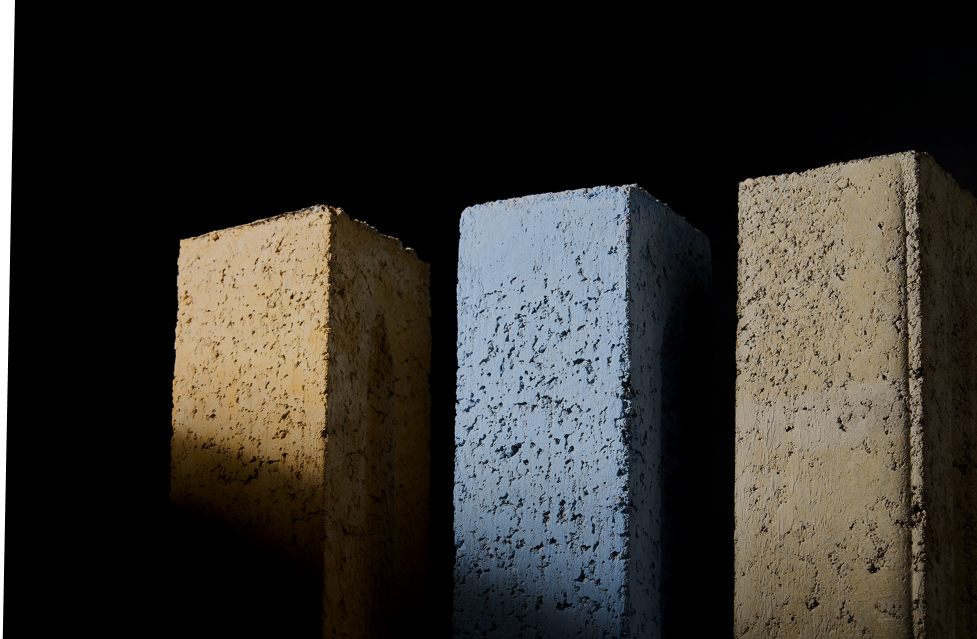
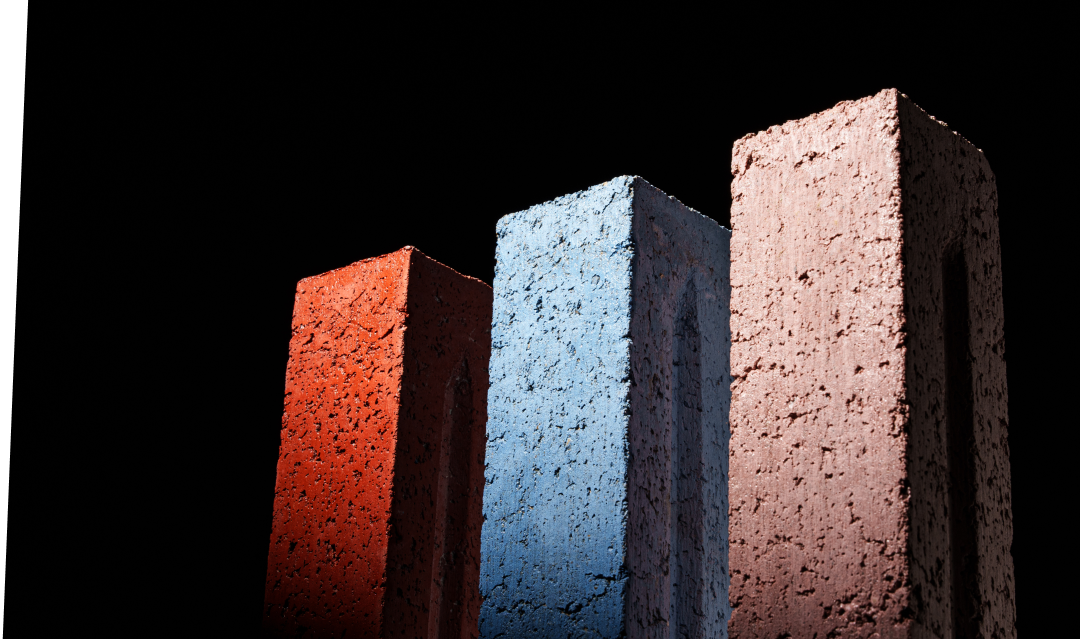
Added anims

diff --git a/app/components/Slider.tsx b/app/components/Slider.tsx
@@ -4,7 +4,45 @@ import { NextFontWithVariable } from "next/dist/compiled/@next/font";
 import Image from "next/image";
 import { useEffect, useRef, useState } from "react";
 import { Swiper, SwiperSlide } from "swiper/react";
-import { Swiper as SwiperType } from 'swiper';
+import SwiperCore, { Swiper as SwiperType } from 'swiper';
+import { FreeMode, Mousewheel } from 'swiper/modules';
+
+
+SwiperCore.use([FreeMode, Mousewheel]);
+
+
+const sliderSlides = [
+  {
+    front: "/images/brick-1-img.png",
+    back: "/images/brick-1.png",
+    text: "Augusta Green",
+    color: "#006341"
+  },
+  {
+    front: "/images/brick-2-img.png",
+    back: "/images/brick-2.png",
+    text: "Glamour Pink",
+    color: "#F2CDD4"
+  },
+  {
+    front: "/images/brick-3.png",
+    back: "/images/brick-3.png",
+    text: "Lone Star Orange",
+    color: "#B84001"
+  },
+  {
+    front: "/images/brick-4-img.png",
+    back: "/images/brick-4.png",
+    text: "desert DUNE",
+    color: "#CFBA9C"
+  },
+  {
+    front: "/images/brick-5-img.png",
+    back: "/images/brick-5.png",
+    text: "Iceberg Blue",
+    color: "#ABBCCC"
+  }
+]
 
 
 
@@ -22,15 +60,15 @@ const Slider: React.FC<SliderProps> = ({ font }) => {
 
 
   return (
-    <div className="mt-24 flex flex-col items-center ps-6 lg:ps-36">
+    <div className="mt-24 flex flex-col items-center ps-6 lg:ps-36 max-h-screen">
 
         <div className="flex flex-col lg:flex-row justify-between items-center lg:items-start">
           <div className="w-4/5 lg:w-1/3 text-center lg:text-left flex flex-col items-center lg:items-start">
-            <h3 className={`${font.className} antialiased text-[#F3F3F6] font-bold text-[4rem] leading-[4rem] uppercase`}><span className="text-bg">Color</span><br/>that inspires</h3>
+            <h3 className={`${font.className} antialiased text-[#F3F3F6] font-bold text-[3rem] lg:text-[4rem] leading-[3rem] lg:leading-[4rem] uppercase`}><span className="text-bg">Color</span><br/>that inspires</h3>
             <p className="text-[#969696] text-base">If you aspire to create stunning structures that are a reflection of your life’s work, consider how the Bilco Professional Line of concrete bricks can <span className="text-white">brighten your next project.</span></p>
           </div>
 
-          <div className="lg:flex flex-row gap-x-4 justify-center self-end hidden">
+          <div className="lg:flex flex-row gap-x-4 justify-center self-end hidden me-8">
             <button 
               className="rounded-full w-12 h-12 bg-[#2D2D2F] flex justify-center items-center"
               onClick={() => swiperRef?.current?.slidePrev()}
@@ -50,9 +88,13 @@ const Slider: React.FC<SliderProps> = ({ font }) => {
           <Swiper
             onSwiper={(swiper) => (swiperRef.current = swiper)}
             slidesPerView={3.3}
-            autoplay={true}
+            autoplay={false}
             navigation={false}
-            className="w-full"
+            freeMode={true}               // Enable free mode for smooth transitions
+            mousewheel={{ forceToAxis: true }}  // Enable mousewheel and set to axis for horizontal scrolling
+            grabCursor={true}      
+            resizeObserver={true}
+            updateOnWindowResize={true}
             breakpoints={{
               428: {
                 slidesPerView: 1.5
@@ -63,11 +105,11 @@ const Slider: React.FC<SliderProps> = ({ font }) => {
             }}
           >
             {
-              Array(6).fill("card").map((card, i) => (
+              sliderSlides.map((card, i) => (
 
                 <SwiperSlide key={i}>
-                  <div className="rounded-3xl p-6 flex flex-col gap-y-3 relative">
-                    <div className="absolute top-0 right-0 flex flex-row gap-x-3 justify-center items-center m-12 z-40">
+                  <div className="rounded-3xl p-3 lg:p-6 flex flex-col gap-y-3 relative">
+                    <div className="absolute top-0 right-0 flex flex-row gap-x-3 justify-center items-center m-6 lg:m-12 z-40">
                       <p className="text-slate-800 text-sm">FLIP</p>
                       <div 
                         className="flex justify-center p-3 rounded-full bg-slate-800 cursor-pointer" 
@@ -80,17 +122,20 @@ const Slider: React.FC<SliderProps> = ({ font }) => {
                       </div>
                     </div>
                     <div className="w-full relative">
-                      <Image src="/images/slide-1.png" alt="brick-img" width={480} height={525} className="w-full opacity-0" />
+                      <Image src={card.front} alt="brick-img" width={480} height={525} className="w-full opacity-0" />
 
                       <div className="w-full card absolute h-full top-0 left-0" style={{ perspective: '5000px' }}>
                         <div className="relative card-inner w-full h-full" style={ flipCardIndex === i ? { transform: 'rotateY(180deg)' } : {  }}>
-                          <Image src="/images/slide-1.png" alt="brick-img" width={480} height={525} className="w-full h-full absolute front-face" />
-                          <Image src="/images/flip-1.png" alt="brick-img" width={480} height={525} className="w-full h-full absolute back-face" style={{ transform: 'rotateY(180deg)'}} />
+                          <Image src={card.front} alt="brick-img" width={480} height={525} className="w-full h-full absolute front-face" />
+                          <Image src={card.back} alt="brick-img" width={480} height={525} className="w-full h-full absolute back-face" style={{ transform: 'rotateY(180deg)'}} />
                         </div>
 
                       </div>
                     </div>
-                    <p className="text-white text-base">pms 17-9843</p>
+                    <div className="flex flex-row gap-x-3 justify-start items-center">
+                      <div className="w-6 h-6 rounded-md" style={{ backgroundColor: card.color }}></div>
+                      <p className="text-white text-base uppercase">{card.text}</p>
+                    </div>
                   </div>
                 </SwiperSlide>
               ))

diff --git a/app/components/ZoomIn.tsx b/app/components/ZoomIn.tsx
@@ -19,6 +19,8 @@ const ZoomIn: React.FC<ZoomInProps> = ({ font }) => {
 
   const brickRef = useRef(null);
   const brickSectionRef = useRef(null);
+  const textTopRef = useRef(null);
+  const textBottomRef = useRef(null);
 
   useGSAP(
     () => {
@@ -28,8 +30,30 @@ const ZoomIn: React.FC<ZoomInProps> = ({ font }) => {
         // opacity: 0,
         scrollTrigger: {
           trigger: brickSectionRef.current,
-          start: 'top 80%',
-          end: 'center 30%',
+          start: 'top bottom',
+          end: 'center bottom',
+          scrub: true,
+          // markers: true,
+        },
+      });
+      gsap.from(textTopRef.current, {
+        y: 100,
+        opacity: 0, 
+        scrollTrigger: {
+          trigger: brickSectionRef.current,
+          start: 'top bottom',
+          end: 'center bottom',
+          scrub: true,
+          // markers: true,
+        },
+      });
+      gsap.from(textBottomRef.current, {
+        y: 100,
+        opacity: 0,
+        scrollTrigger: {
+          trigger: brickSectionRef.current,
+          start: 'top bottom',
+          end: 'center bottom',
           scrub: true,
           // markers: true,
         },
@@ -38,14 +62,14 @@ const ZoomIn: React.FC<ZoomInProps> = ({ font }) => {
   );
 
   return (
-    <div className="mt-48 flex flex-col items-center" ref={brickSectionRef}>
-        <h3 className={`${font.className} antialiased text-[#F3F3F6] font-bold text-[4rem] leading-[4rem] uppercase text-center`}>Weather Any Weather</h3>
-        <p className="text-[#969696] text-base text-center">Endure the wear and tear of typical fading and sun damage. Build it brighter. Build it to last.</p>
-        <Image src="/images/gray-brick.png" alt="brick-img" width={1302} height={463} className="mt-24" ref={brickRef} />
+    <div className="mt-12 lg:mt-48 flex flex-col items-center" ref={brickSectionRef}>
+        <h3 className={`${font.className} antialiased text-[#F3F3F6] font-bold text-[3rem] lg:text-[4rem] leading-[3rem] lg:leading-[4rem] uppercase text-center`} ref={textTopRef}>Weather Any Weather</h3>
+        <p className="text-[#969696] text-base text-center" ref={textBottomRef}>Endure the wear and tear of typical fading and sun damage. Build it brighter. Build it to last.</p>
+        <Image src="/images/gray-brick.png" alt="brick-img" width={1000} height={356} className="mt-12" ref={brickRef} />
 
 
         <div className="mt-28 flex flex-col lg:flex-row justify-around items-center lg:items-start">
-          <h3 className={`${font.className} antialiased text-[#F3F3F6] font-bold text-[4rem] leading-[4rem] uppercase`}>Custom<br /> Created</h3>
+          <h3 className={`${font.className} antialiased text-[#F3F3F6] font-bold text-[3rem] lg:text-[4rem] leading-[3rem] lg:leading-[4rem] uppercase`}>Custom<br /> Created</h3>
           <p className="text-[#969696] text-base w-4/5 lg:w-1/2 text-center lg:text-left">Unlike mass produced clay bricks, every batch of the Bilco Professional Line is <span className="text-white">made to order.</span> <br/><br/>Through this personalized manufacturing process, the bricks are guaranteed to match your vision.</p>
         </div>
 

diff --git a/app/ThreeScene.tsx b/app/ThreeScene.tsx
@@ -9,6 +9,7 @@ import { HexColorInput } from "react-colorful";
 import Image from "next/image";
 import { PopoverPicker } from "./components/PopoverPicker";
 
+
 const ThreeScene: React.FC = () => {
   const containerRef = useRef<HTMLDivElement>(null);
   const [color, setColor] = useState("#cccccc");
@@ -32,10 +33,12 @@ const ThreeScene: React.FC = () => {
         const renderer = new THREE.WebGLRenderer({ antialias: true });
         renderer.setAnimationLoop(animate);
         renderer.setPixelRatio(window.devicePixelRatio);
+        console.log(window.innerWidth, 'inner');
+        
         if(window.innerWidth > 726) {
           renderer.setSize(window.innerWidth / 2.5, window.innerHeight / 2.5);
         } else {
-          renderer.setSize(window.innerWidth / 0.9, window.innerHeight / 0.9);
+          renderer.setSize(window.innerWidth, window.innerHeight / 2.5);
         }
         renderer.toneMapping = THREE.ACESFilmicToneMapping;
   
@@ -107,7 +110,11 @@ const ThreeScene: React.FC = () => {
               mesh.castShadow = true;
               mesh.receiveShadow = true;
 
-              mesh.scale.set(0.6, 0.6, 0.6);
+              if(window.innerWidth > 726) {
+                mesh.scale.set(0.6, 0.6, 0.6);
+              } else {
+                mesh.scale.set(0.2, 0.6, 0.2);
+              }
               mesh.rotation.set(0, 1.2, 0);
             }
           });
@@ -264,7 +271,7 @@ useEffect(() => {
             <HexColorInput
               color={color}
               onChange={setColor}
-              className="px-2 bg-transparent rounded-lg placeholder:text-slate-700 text-slate-700 w-fit colorInput"
+              className="px-2 bg-transparent rounded-lg placeholder:text-slate-700 text-slate-700 w-1/3 lg:w-fit colorInput"
             />
             <div className="flex flex-row gap-x-4 cursor-pointer" >
               <p className="text-base text-white uppercase">Select a color</p>
@@ -275,8 +282,8 @@ useEffect(() => {
 
         </div>
 
-        <div className="flex flex-col justify-center items-center gap-y-2">
-          <div className="flex flex-row gap-2 justify-center items-center bg-[#2D2D2F] rounded-full px-2">
+        <div className="flex flex-col justify-center items-center gap-y-2 mt-6 lg:mt-0">
+          <div className="flex flex-row gap-2 justify-between lg:justify-center items-center bg-[#2D2D2F] rounded-full px-2 w-full lg:w-auto">
             <div className={`flex flex-col gap-2 justify-center items-center relative ${selectedLight === 0 ? 'bg-white' : 'bg-transparent'} rounded-full px-10 py-4 h-[80%] transition-all duration-300`}>
               <button
                 className="rounded-full w-full h-full cursor-pointer transition-all absolute z-10"

diff --git a/app/components/ParallelBrick.tsx b/app/components/ParallelBrick.tsx
@@ -27,7 +27,7 @@ const ParallelBrick: React.FC<ParallelBrickProps> = ({ font }) => {
         scrollTrigger: {
           trigger: brickSectionRef.current,
           start: 'top bottom',
-          end: 'center 80%',
+          end: '90% center',
           scrub: true,
           // markers: true,
         },
@@ -37,15 +37,15 @@ const ParallelBrick: React.FC<ParallelBrickProps> = ({ font }) => {
 
 
   return (
-    <div className="mt-24 flex flex-col lg:flex-row justify-start items-center" ref={brickSectionRef}>
-      <div className="w-1/2 relative">
-        <Image src="/images/Blue-Brick.png" alt="brick-img" width={500} height={200} className="absolute bottom-[10px] left-0 w-[32vw]" />
-        <Image src="/images/Blue-Brick.png" alt="brick-img" width={500} height={200} className="opacity-0" />
-        <Image src="/images/Blue-Brick-cut.png" alt="brick-img" width={500} height={200} className="absolute bottom-[1.5vw] left-[42%] w-[19vw]" ref={brickCutRef} />
+    <div className="mt-0 lg:mt-24 flex flex-col lg:flex-row justify-start items-center" ref={brickSectionRef}>
+      <div className="w-full lg:w-1/2 relative">
+        <Image src="/images/brick-cut2.png" alt="brick-img" width={500} height={200} className="absolute bottom-[10px] left-0 w-[65vw] lg:w-[32vw]" />
+        <Image src="/images/brick-cut2.png" alt="brick-img" width={500} height={300} className="opacity-0" />
+        <Image src="/images/brick-cut.png" alt="brick-img" width={500} height={200} className="absolute bottom-[-0.5vw] left-[30%] w-[51vw] lg:w-[25vw]" ref={brickCutRef} />
       </div>
 
       <div className="w-2/3 lg:w-1/3  text-center lg:text-left flex flex-col items-center lg:items-start mt-12 lg:mt-0">
-        <h3 className={`${font.className} antialiased text-[#F3F3F6] font-bold text-[4rem] leading-[4rem] uppercase`}><span className="text-bg">Colored</span><br/>to the core</h3>
+        <h3 className={`${font.className} antialiased text-[#F3F3F6] font-bold text-[3rem] lg:text-[4rem] leading-[3rem] lg:leading-[4rem] uppercase`}><span className="text-bg">Colored</span><br/>to the core</h3>
         <p className="text-[#969696] text-base">Get unparalleled, deep color seamlessly mixed <span className="text-white">throughout every millimeter of concrete</span>, from the inside out. Full spectrum. Full coverage.</p>
       </div>
     </div>

diff --git a/app/components/NavBar.tsx b/app/components/NavBar.tsx
@@ -1,11 +1,35 @@
 import Image from "next/image";
 import Button from "./Button";
+import { useEffect, useRef, useState } from "react";
 
 const NavBar = () => {
-  return (
-    <div className="fixed top-0 left-0 w-full flex flex-row justify-between px-4 lg:px-14 py-8 lg:py-11 bg-transparent z-10">
-      <Image src="/images/bilco-logo.png" alt="bilco logo" width={243} height={38} className="scale-75 lg:scale-100"/>
+  const navRef = useRef<HTMLDivElement | null>(null);
+  const [isScrolled, setIsScrolled] = useState(false);
 
+  useEffect(() => {
+    const handleScroll = () => {
+      if (window.scrollY > 50) {
+        setIsScrolled(true);
+      } else {
+        setIsScrolled(false);
+      }
+    };
+
+    // Attach scroll event listener
+    window.addEventListener("scroll", handleScroll);
+
+    // Clean up the event listener on component unmount
+    return () => {
+      window.removeEventListener("scroll", handleScroll);
+    };
+  }, []);
+
+  return (
+    <div
+      ref={navRef}
+      className={`fixed top-0 left-0 w-full flex flex-row justify-between px-4 lg:px-14 py-8 z-30 transition-all duration-300 ${isScrolled ? "bg-black lg:py-6" : "bg-transparent lg:py-11"}`}
+    >
+      <Image src="/images/bilco-logo.png" alt="bilco logo" width={243} height={38} className={`scale-75 transition-all duration-300 ${isScrolled ? 'lg:scale-80' : 'lg:scale-100'}`} />
       <div className="hidden lg:flex">
         <Button text="Get Started" link="#contact" />
       </div>

diff --git a/app/page.tsx b/app/page.tsx
@@ -139,12 +139,12 @@ const Home = () => {
           <video src="/images/hero-video.mp4" className="object-cover !max-w-none" autoPlay muted loop ref={videoRef}></video>
         </div>
       </div>}
-      <div className="w-screen relative h-screen overflow-hidden">
+      <div className="w-screen relative h-fit overflow-hidden">
         <div className="h-screen lg:h-fit w-auto lg:w-full z-0 overflow-hidden">
           <video src="/images/hero-video.mp4" className="object-cover !max-w-none"></video>
         </div>
 
-        <div className="absolute top-0 left-0 w-full h-full flex flex-col justify-end items-center gap-24">
+        <div className="absolute top-0 left-0 w-full h-full flex flex-col justify-center items-center gap-24">
           <div className="w-full flex flex-col justify-center items-center gap-y-6 z-10 relative">
             <div className="overflow-hidden">
               <h1 className={`${urdwinBoldMono.className} antialiased text-[#F3F3F6] font-bold text-[2rem] uppercase`} ref={lineTextRef}>professional line</h1>
@@ -203,7 +203,7 @@ const Home = () => {
       <Contact font={urdwinBoldMono} />
 
 
-      <div className="mt-24 footer p-12 lg:p-28 ps-12 2xl:ps-80 bg-black">
+      <div className="mt-0 footer p-12 lg:p-28 lg:pb-12 ps-12 2xl:ps-80 bg-black">
         <div className="flex flex-col gap-y-12 justify-start">
           <Image src="/images/bilco-logo.png" alt="bilco logo" width={175} height={28}/>
 

diff --git a/app/components/Contact.tsx b/app/components/Contact.tsx
@@ -41,15 +41,15 @@ const Contact:React.FC<ContactProps> = ({ font }) => {
             <p className="text-white text-base text-left uppercase">Interested In:</p>
 
             <div className="flex flex-row flex-wrap items-start lg:items-center gap-3 mb-8">
-              <div className="flex flex-row gap-3">
+              <div className="flex flex-row gap-1">
                 <input type="radio" name="interests" value={'Business Inquiry'} id="inquiry" />
                 <label htmlFor="inquiry" className="text-white text-base text-center uppercase ms-2 me-4">Business Inquiry</label>
               </div>
-              <div className="flex flex-row gap-3">
+              <div className="flex flex-row gap-1">
                 <input type="radio" name="interests" value={'Sample Kit'} />
                 <label htmlFor="inquiry" className="text-white text-base text-center uppercase ms-2 me-4">Sample Kit</label>
               </div>
-              <div className="flex flex-row gap-3">
+              <div className="flex flex-row gap-1">
                 <input type="radio" name="interests" value={'other'} />
                 <label htmlFor="inquiry" className="text-white text-base text-center uppercase ms-2 me-4">Other</label>
               </div>
